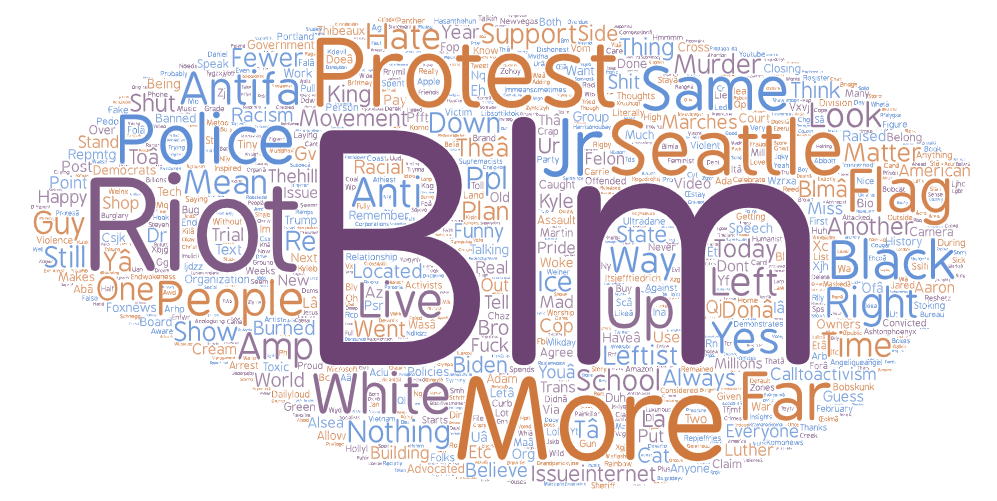
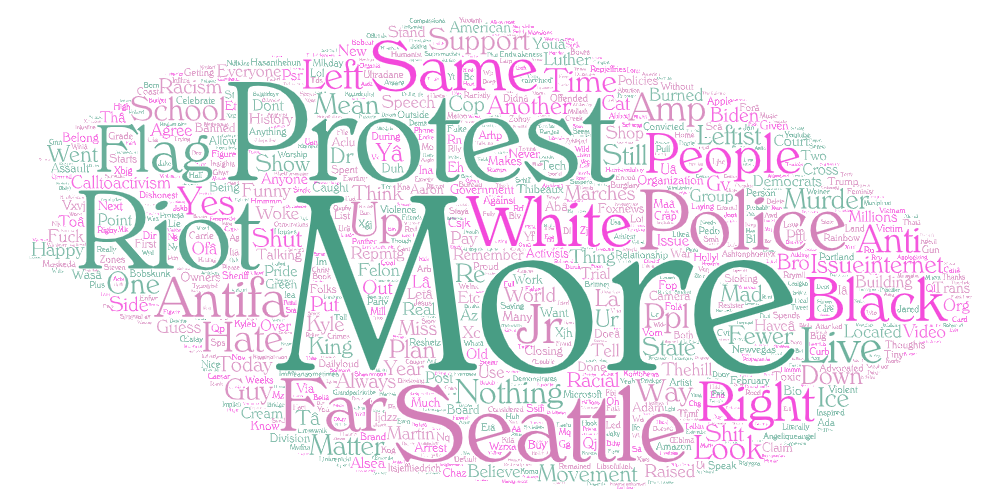
wordcloud & md

diff --git a/README.md b/README.md
@@ -4,12 +4,12 @@
 I decided to use **BLM** as the parameter to get an overlook of the topic and see what people are discussing about the aftermath of the movement that has erupted during mid-2020. The four locations I chose are _Seattle WA_, _Dallas TX_, _Manhattan_, and _Los Angeles CA_. These four cities each represents a crowd of unique population that differs vastly in culture and geography from the others. To find out if this difference also shows in the twitter threads of a rather political topic such as BLM, and whether the threads reflect the characteristics of each city, I collected the data to make some comparisons. 
 
 #### iii.
-As expected, the word clouds share a set of the same phrases that are most common in the discussion of BLM no matter the geographical location (BLM, Riots, Protests, etc.), while words that are less common start to show a unique set of diversity in each word cloud. <br>
-In the word cloud of threads in Manhattan, **“Boomer”** stands out to be a significant term while it doesn’t seem to appear in the other word clouds. The terms in the Manhattan word clouds overall present a mild temperament and objective tone to the subject. 
+As expected, the word clouds share a set of the same phrases that are most common in the discussion of BLM no matter the geographical location (Riots, Protests, Black, etc.), while words that are less common start to show a unique set of diversity in each word cloud. <br>
+In the word cloud of threads in Manhattan, **“Boomer”** stands out to be a significant term while it doesn’t seem to appear in the other word clouds. In addition to that, Brooklyn Congressman Hakeem Jeffries' twitter account is mentioned frequently in the threads. The terms in the Manhattan word clouds overall present a mild tone to the subject. 
 
 ![img](img/wordcloud-3.png)
 
-While in the Dallas word cloud, political terms such as **“Democratic”** and **“Party”** are brought up more than in other word clouds, and more heated words are involved (Thugs, Freaks, Gay). Other topics such as LGBT and politics are also frequently touched on in the discussion of BLM in Dallas.
+While in the Dallas word cloud, the word **"Riot"** stands out the most, almost looks like it's introducing the overview of the local twitter thread. Political terms such as **“Democratic”** and **“Party”** are brought up more than in other word clouds, and more heated words are involved (Thugs, Freaks, Kill). Other topics such as LGBT are also frequently touched on in the discussion of BLM in the twitter thread from Dallas.
 
 ![img](img/wordcloud-2.png)
 
@@ -30,7 +30,7 @@ One of the things that stood out to me is that the word clouds have the phrase *
 
 
 #### Download link to the result spreadsheets of collected data
-- [twsearch-result-1.csv](https://drive.google.com/file/d/1-8TR2NEXMOTupWYe0GHvv8XuqIJmouxq/view?usp=sharing)
-- [twsearch-result-2.csv](https://drive.google.com/file/d/1-CdPRI0p-PZFu1BOYHKkeibjJi-pXlTh/view?usp=sharing)
-- [twsearch-result-3.csv](https://drive.google.com/file/d/1-DGV66n2aEdPH53Gv2j_uo54EhBDfZZs/view?usp=sharing)
-- [twsearch-result-4.csv](https://drive.google.com/file/d/1-FPJuQ_fXCWwX-xNtTPt7PEmcbHhaRa_/view?usp=sharing)
+- [twsearch-result-1.csv (Seattle, WA)](https://drive.google.com/file/d/1-8TR2NEXMOTupWYe0GHvv8XuqIJmouxq/view?usp=sharing)
+- [twsearch-result-2.csv (Dallas, TX)](https://drive.google.com/file/d/1-CdPRI0p-PZFu1BOYHKkeibjJi-pXlTh/view?usp=sharing)
+- [twsearch-result-3.csv (Manhattan, NY)](https://drive.google.com/file/d/1-DGV66n2aEdPH53Gv2j_uo54EhBDfZZs/view?usp=sharing)
+- [twsearch-result-4.csv (Los Angeles, CA)](https://drive.google.com/file/d/1-FPJuQ_fXCWwX-xNtTPt7PEmcbHhaRa_/view?usp=sharing)
